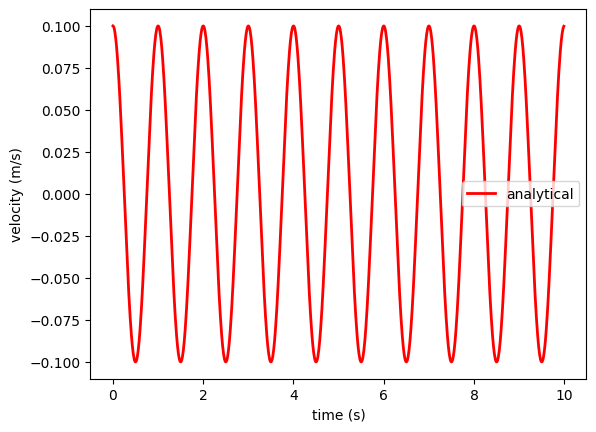
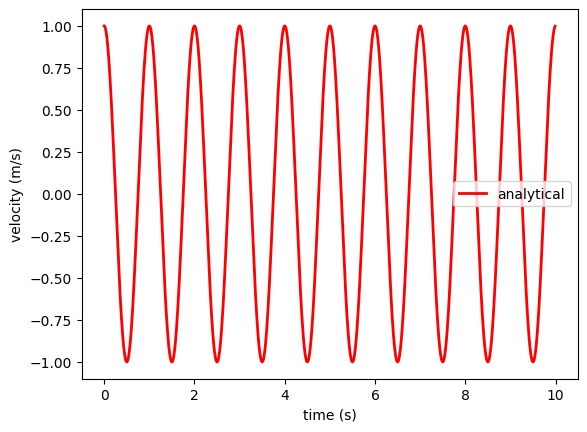
deploy: 9232f4d7fd3fe138bfeeb5fb299803255543f6fc

diff --git a/bar1d-vibration.html b/bar1d-vibration.html
@@ -418,7 +418,7 @@ def analytical_vibration(E, rho, v0, x_loc, duration, dt, L):
 E = 4 * (np.pi)**2
 
 # analytical solution
-ta, va, xa = analytical_vibration(E = E, rho = 1, v0 = 0.1, x_loc = 1.0, duration = 10, dt = 0.01, L = 1.0)
+ta, va, xa = analytical_vibration(E = E, rho = 1, v0 = 1.0, x_loc = 1.0, duration = 10, dt = 0.01, L = 1.0)
 
 plt.plot(ta, va, &#39;r&#39;,linewidth=2,label=&#39;analytical&#39;)
 
@@ -447,7 +447,7 @@ nparticles = 1                       # number of particles
 el_length  = L / nelements           # element length
 
 # Initial conditions 
-v0         = 0.1                     # initial velocity
+v0         = 1.0                     # initial velocity
 x_loc      = 1.0                     # location to get analytical solution
 
 # Material points
